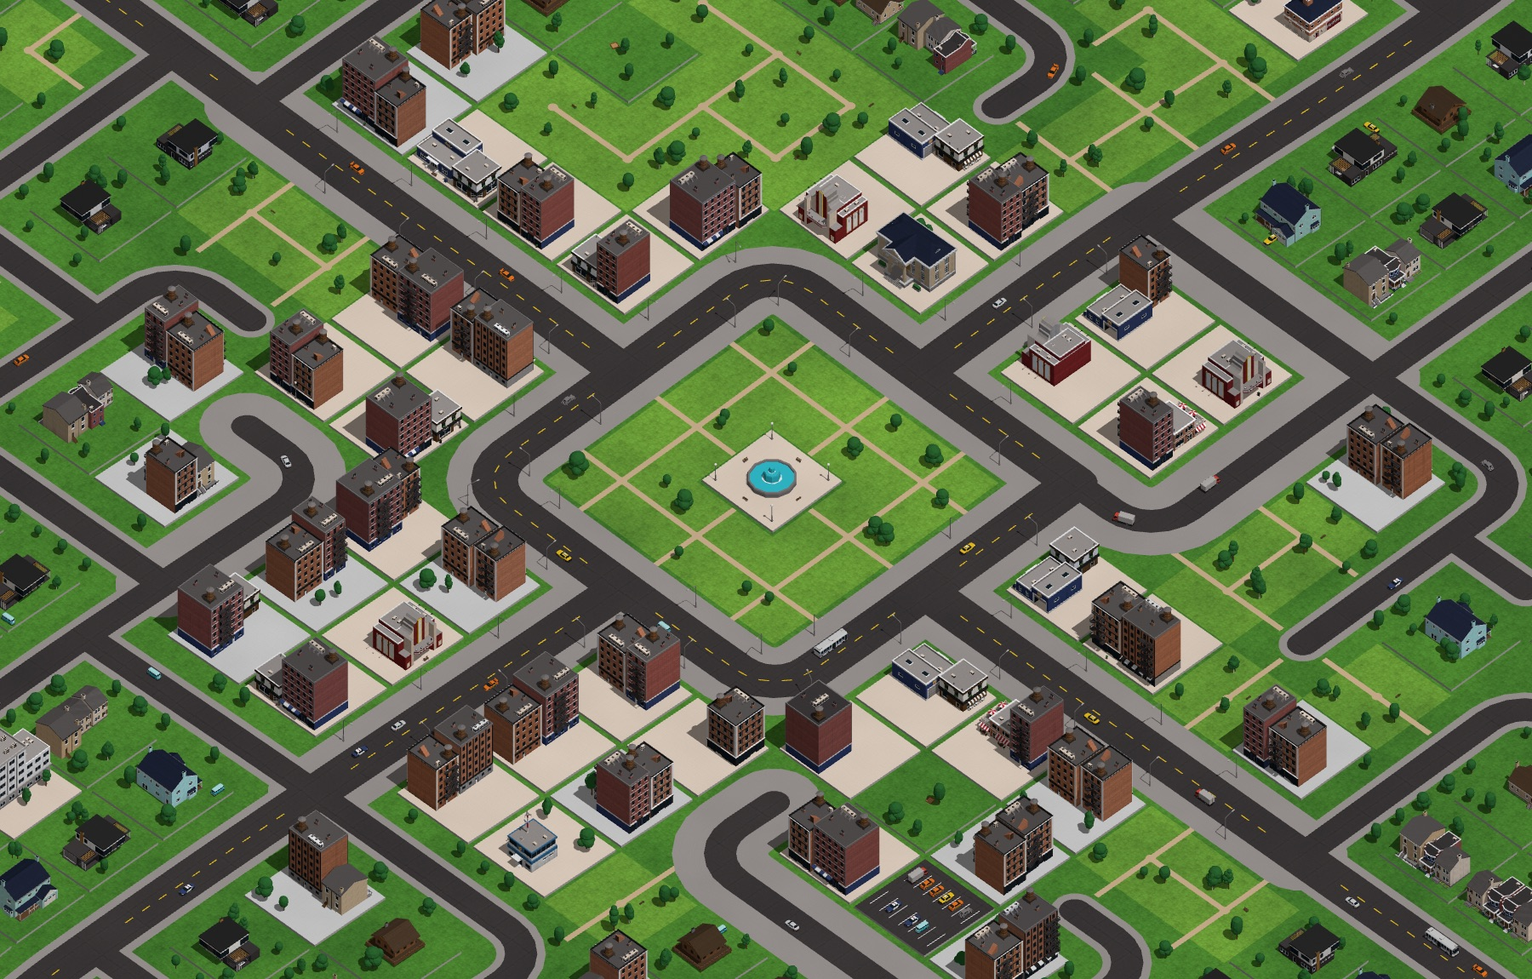
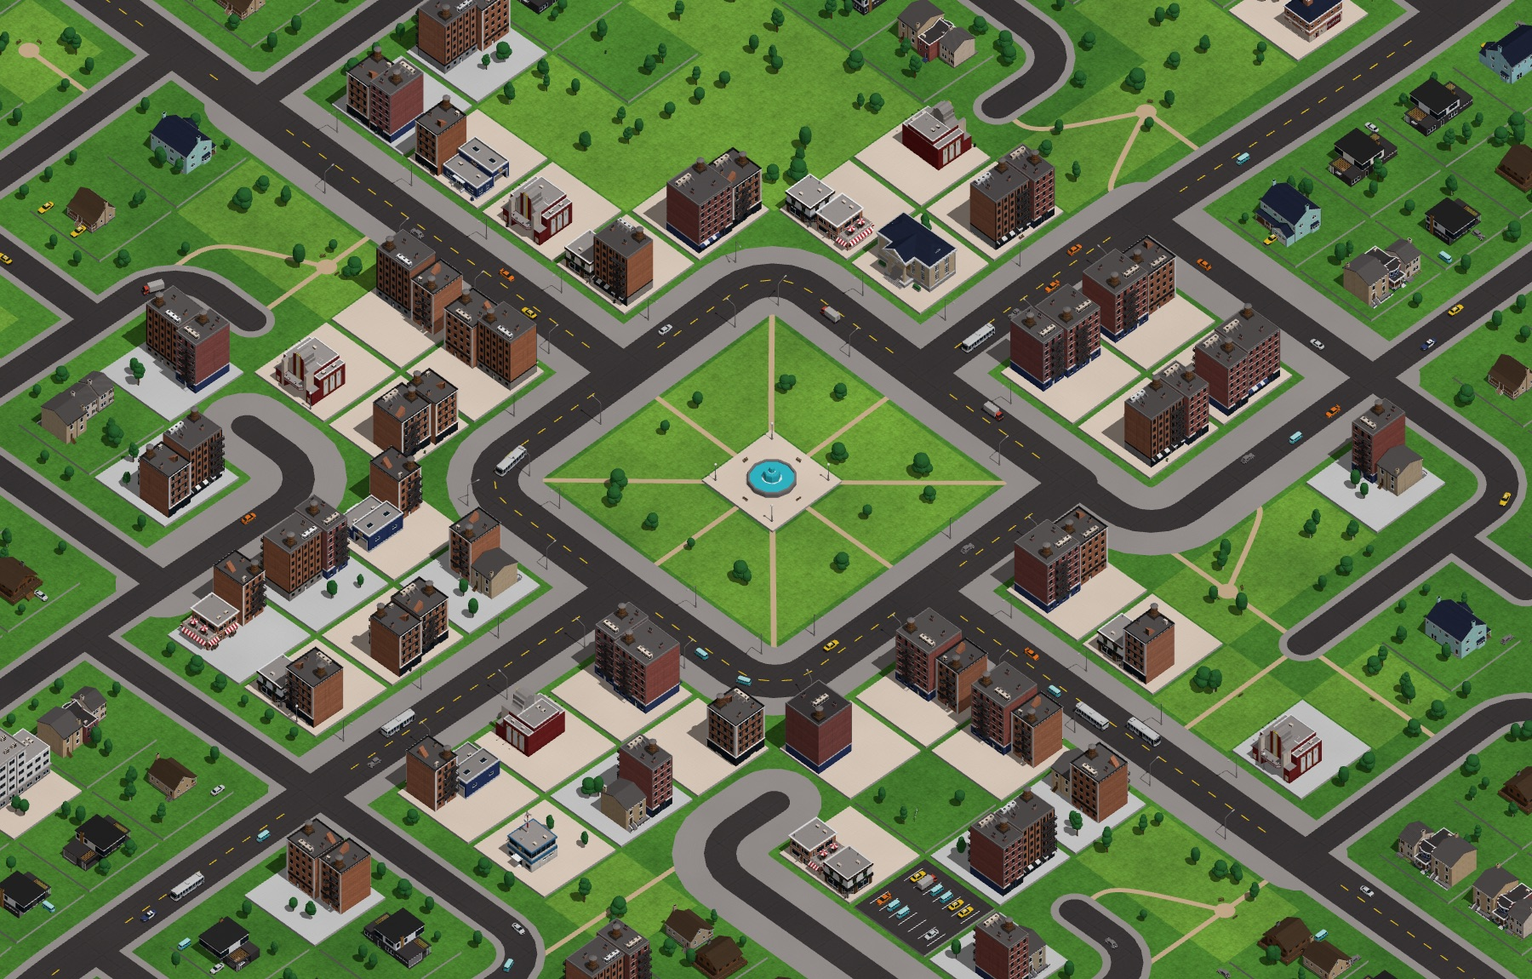
Make park paths lead somewhere, and fix spikes in curved streets (#7)
- Park paths start only where a street runs along the park's edge, and
  every path goes somewhere: through the park from street to street,
  with a bench beside it, or in to a small round seating area with
  benches. Parks with no street along them get no paths.
- Paths take the most direct line that stays in the park and curve
  round corners. Entrances whose path would wander are left out when
  there are others. The square gets paths from each side and corner to
  the fountain. Trees keep off paths.
- Where two street curves met, the shared point was added twice, which
  doubled the street's width there and left triangular spikes. Repeated
  points are now dropped.
- The straight/bent streets button is gone (?warp=0 still works).
  ?debug logs street and path checks, and ?shot= renders one view.

diff --git a/prototypes/city-mockup/town.html b/prototypes/city-mockup/town.html
@@ -34,7 +34,6 @@
   <div class="row">
     <b>Town</b><span id="seedLabel" class="grow"></span>
     <button id="replay" type="button">Watch it build</button>
-    <button id="warp" type="button"></button>
     <button id="new" type="button">New town</button>
   </div>
   <div class="row">
@@ -133,6 +132,10 @@ function makeFlat() {
     },
     // A strip along a line, slabs laid along each segment
     ribbon(pts, width, y, s, kind = SURF.none) {
+      // Repeated points (where two curves meet) would read as a sharp corner and double the
+      // strip's width there, so they're dropped
+      pts = pts.filter((p, i) => i === 0 || Math.hypot(p[0] - pts[i - 1][0], p[1] - pts[i - 1][1]) > 1e-6);
+      if (pts.length < 2) return;
       const h = width / 2, L = [], R = [];
       const normal = (q0, q1) => { const [dx, dz] = norm(sub(q1, q0)); return [-dz, dx]; };
       for (let i = 0; i < pts.length; i++) {
@@ -289,7 +292,8 @@ const streets = [];
     dense.push(pts.at(-1));
     const mid = pts[Math.floor(pts.length / 2)];
     const downtown = zone(mid) < DOWNTOWN;
-    streets.push({ cls, pts: dense.map(warp), startNode: true, endNode, downtown, ...ROAD[cls], pavement: downtown ? 0.9 : ROAD[cls].pavement });
+    // plan: the line before the warp, for working out where park paths meet the street
+    streets.push({ cls, plan: dense, pts: dense.map(warp), startNode: true, endNode, downtown, ...ROAD[cls], pavement: downtown ? 0.9 : ROAD[cls].pavement });
   }
   const roadCells = plan.cells.filter((cell) => roadSides(cell).length);
   for (const cell of roadCells) if (isNode(cell)) for (const d of roadSides(cell)) if (!seen(cell, d)) trace(cell, d);
@@ -314,23 +318,210 @@ function along(street, step, trim = 0.42) {
 const ground = makeFlat();
 const half = N / 2;
 ground.polygon([[-half, -half], [half, -half], [half, half], [-half, half]], Y.ground, SW.ground, GRASS);
-for (const cell of plan.cells) {
-  if (cell.id === 'park' || cell.id === 'square') ground.polygon(cellRing(cell), Y.land, SW.park, GRASS);
-  // Paths through parks and the square, to neighbouring park cells and out to the street
-  if (cell.id === 'park' || cell.id === 'square') {
-    const o = warp(centreOf(cell));
-    for (let d = 0; d < 4; d++) {
-      const n = cellAt(cell.x + DIRS[d][0], cell.z + DIRS[d][1]);
-      if (!n) continue;
-      const toStreet = n.kind === 'road' || n.kind === 'main';
-      if (!toStreet && !['park', 'square', 'fountain'].includes(n.id)) continue;
-      // To a street, the path carries on across the verge to the pavement
-      const [x, z] = centreOf(cell), reach = toStreet ? 0.72 : 0.5;
-      ground.ribbon([0.25, 0.5, reach].reduce((p, k) => [...p, warp([x + DIRS[d][0] * k, z + DIRS[d][1] * k])], [o]), 0.06, Y.path, SW.paving, SURF.slabs);
+for (const cell of plan.cells) if (cell.id === 'park' || cell.id === 'square') ground.polygon(cellRing(cell), Y.land, SW.park, GRASS);
+
+// ---------------------------------------------------------------- park paths
+// Paths go where people would walk. Each park (a group of park cells side by side) gets
+// entrances only where a street runs along its edge, then a path from each entrance to a hub
+// near its middle:
+// - 2 entrances: one path through the park, from street to street, with a bench beside it
+// - 1, or 3 and more: paths meet at a small round seating area with benches
+// - none: no paths
+// The courthouse square gets paths in from the middle of each side and from each corner, to
+// the fountain. Paths run straight where they can, and curve round corners where they can't.
+// Everything is worked out on the plan, then warped like the streets.
+const parkPaths = [];             // the paths as drawn (warped), so trees keep off them
+const plazas = [];                // seating areas: { o, r }, warped
+const parkBenches = new Map();    // cell index → benches to place: [{ p, rot }]
+{
+  const segDist = (p, a, b) => {
+    const dx = b[0] - a[0], dz = b[1] - a[1], l2 = dx * dx + dz * dz || 1;
+    const t = Math.max(0, Math.min(1, ((p[0] - a[0]) * dx + (p[1] - a[1]) * dz) / l2));
+    return Math.hypot(p[0] - a[0] - dx * t, p[1] - a[1] - dz * t);
+  };
+  for (const st of streets) {
+    st.box = st.plan.reduce((b, [x, z]) => [Math.min(b[0], x), Math.min(b[1], z), Math.max(b[2], x), Math.max(b[3], z)], [Infinity, Infinity, -Infinity, -Infinity]);
+  }
+  // Whether a plan point is on a street's pavement or road
+  const onStreet = (p) => streets.some((st) => {
+    if (p[0] < st.box[0] - 1 || p[1] < st.box[1] - 1 || p[0] > st.box[2] + 1 || p[1] > st.box[3] + 1) return false;
+    for (let i = 0; i < st.plan.length - 1; i++) if (segDist(p, st.plan[i], st.plan[i + 1]) < st.pavement / 2 - 0.02) return true;
+    return false;
+  });
+  // Walks out from p along dir until it's on a street's pavement; null if there's none within reach
+  function reachStreet(p, dir, max) {
+    for (let t = 0; t <= max; t += 0.02) {
+      const q = [p[0] + dir[0] * t, p[1] + dir[1] * t];
+      if (onStreet(q)) return [p[0] + dir[0] * (t + 0.05), p[1] + dir[1] * (t + 0.05)];
     }
-    ground.disc(o, 0.05, Y.path, SW.paving);
+    return null;
+  }
+  // Corner cutting, keeping both ends where they are
+  function smooth(pts, rounds = 3) {
+    for (let k = 0; k < rounds; k++) {
+      const out = [pts[0]];
+      for (let i = 0; i < pts.length - 1; i++) {
+        const a = pts[i], b = pts[i + 1];
+        if (i > 0) out.push([a[0] * 0.75 + b[0] * 0.25, a[1] * 0.75 + b[1] * 0.25]);
+        if (i < pts.length - 2) out.push([a[0] * 0.25 + b[0] * 0.75, a[1] * 0.25 + b[1] * 0.75]);
+      }
+      out.push(pts.at(-1));
+      pts = out;
+    }
+    return pts;
+  }
+  const lengthOf = (pts) => pts.slice(1).reduce((s, p, i) => s + Math.hypot(...sub(p, pts[i])), 0);
+  // A point part way along a line, and the line's direction there
+  function pointAlong(pts, s) {
+    for (let i = 0; i < pts.length - 1; i++) {
+      const l = Math.hypot(...sub(pts[i + 1], pts[i]));
+      if (s <= l || i === pts.length - 2) { const t = Math.min(1, s / (l || 1)); return [[pts[i][0] + (pts[i + 1][0] - pts[i][0]) * t, pts[i][1] + (pts[i + 1][1] - pts[i][1]) * t], norm(sub(pts[i + 1], pts[i]))]; }
+      s -= l;
+    }
+  }
+  const cellIndex = (p) => Math.round(p[1] + c) * N + Math.round(p[0] + c);
+  const addBench = (planP, planFacing) => {
+    // A bench at planP, facing towards planFacing
+    const p = warp(planP), D = norm(sub(p, warp(planFacing)));
+    const list = parkBenches.get(cellIndex(planP)) ?? [];
+    list.push({ p, rot: Math.atan2(D[0], D[1]) + Math.PI });
+    parkBenches.set(cellIndex(planP), list);
+  };
+  let layer = 0;
+  // Draws a path given on the plan, a little above the last so overlapping paths don't flicker
+  function drawPath(planPts) {
+    const dense = [];
+    for (let i = 0; i < planPts.length - 1; i++) {
+      const steps = Math.max(1, Math.ceil(Math.hypot(...sub(planPts[i + 1], planPts[i])) / 0.08));
+      for (let k = 0; k < steps; k++) dense.push([planPts[i][0] + (planPts[i + 1][0] - planPts[i][0]) * k / steps, planPts[i][1] + (planPts[i + 1][1] - planPts[i][1]) * k / steps]);
+    }
+    dense.push(planPts.at(-1));
+    const pts = dense.map(warp);
+    ground.ribbon(pts, 0.055, Y.path + (layer++ % 12) * 0.00005, SW.paving, SURF.slabs);
+    parkPaths.push(pts);
+  }
+
+  // Parks, and the square with its fountain, as groups of cells side by side
+  const kindOf = (cell) => (cell.id === 'park' ? 'park' : cell.id === 'square' || cell.id === 'fountain' ? 'square' : null);
+  const seen = new Set(), regions = [];
+  for (const cell of plan.cells) {
+    const kind = kindOf(cell);
+    if (!kind || seen.has(cell)) continue;
+    const cells = [], stack = [cell];
+    seen.add(cell);
+    while (stack.length) {
+      const a = stack.pop();
+      cells.push(a);
+      for (const [dx, dz] of DIRS) { const b = cellAt(a.x + dx, a.z + dz); if (b && !seen.has(b) && kindOf(b) === kind) { seen.add(b); stack.push(b); } }
+    }
+    regions.push({ kind, cells });
+  }
+
+  for (const { kind, cells } of regions) {
+    const set = new Set(cells);
+    const inside = ([x, z]) => set.has(cellAt(Math.round(x + c), Math.round(z + c)));
+    // The hub: the fountain, or the park cell nearest the park's middle
+    const mid = cells.reduce((m, k) => [m[0] + centreOf(k)[0] / cells.length, m[1] + centreOf(k)[1] / cells.length], [0, 0]);
+    const hub = kind === 'square' ? cells.find((k) => k.id === 'fountain') : cells.reduce((a, b) => (Math.hypot(...sub(centreOf(a), mid)) <= Math.hypot(...sub(centreOf(b), mid)) ? a : b));
+    const H = centreOf(hub);
+
+    // Routes to the hub: straight if that stays in the park, otherwise round its corners
+    const prev = new Map([[hub, null]]), queue = [hub];
+    while (queue.length) {
+      const a = queue.shift();
+      for (const [dx, dz] of DIRS) { const b = cellAt(a.x + dx, a.z + dz); if (b && set.has(b) && !prev.has(b)) { prev.set(b, a); queue.push(b); } }
+    }
+    // Whether the straight line from a to b stays in the park
+    const clear = (a, b) => Array.from({ length: 19 }, (_, i) => (i + 1) / 20).every((t) => inside([a[0] + (b[0] - a[0]) * t, a[1] + (b[1] - a[1]) * t]));
+    const route = (e) => {
+      const cells = [e.m];
+      for (let k = e.cell; k && k !== hub; k = prev.get(k)) cells.push(centreOf(k));
+      cells.push(H);
+      // Pull the route tight: from each point, go straight to the furthest point it can see
+      const tight = [cells[0]];
+      for (let i = 0; i < cells.length - 1;) {
+        let j = cells.length - 1;
+        while (j > i + 1 && !clear(cells[i], cells[j])) j--;
+        tight.push(cells[j]);
+        i = j;
+      }
+      return [e.q, ...tight];
+    };
+
+    // Possible entrances: the middle of each edge with a street running along it
+    let cands = [];
+    for (const cell of cells) for (let d = 0; d < 4; d++) {
+      const n = cellAt(cell.x + DIRS[d][0], cell.z + DIRS[d][1]);
+      if (!n || set.has(n) || (n.kind !== 'road' && n.kind !== 'main')) continue;
+      if (kind === 'square' && cell.x !== hub.x && cell.z !== hub.z) continue;
+      const C = centreOf(cell), m = [C[0] + DIRS[d][0] * 0.5, C[1] + DIRS[d][1] * 0.5];
+      const q = reachStreet(m, DIRS[d], 0.7);
+      if (q) cands.push({ cell, m, q });
+    }
+    let entrances = cands;
+    if (kind === 'square') {
+      // and the square's corners, out along the diagonals
+      const xs = cells.map((k) => centreOf(k)[0]), zs = cells.map((k) => centreOf(k)[1]);
+      for (const [sx, sz] of [[-1, -1], [1, -1], [1, 1], [-1, 1]]) {
+        const m = [sx < 0 ? Math.min(...xs) - 0.5 : Math.max(...xs) + 0.5, sz < 0 ? Math.min(...zs) - 0.5 : Math.max(...zs) + 0.5];
+        const q = reachStreet(m, norm([sx, sz]), 1);
+        if (q) entrances.push({ cell: cellAt(Math.round(m[0] - sx * 0.25 + c), Math.round(m[1] - sz * 0.25 + c)), m, q });
+      }
+    } else if (cands.length) {
+      // Leave out entrances whose path would wander round a corner of the park, unless that's all there is
+      const direct = cands.filter((e) => lengthOf(route(e).slice(1)) <= 1.35 * Math.max(Math.hypot(...sub(e.m, H)), 0.3));
+      if (direct.length) cands = direct;
+      // As far apart as possible: 2 for a one-cell park, up to 3 or 4 for bigger ones
+      const want = cells.length === 1 ? 2 : cells.length <= 4 ? 3 : 4;
+      entrances = [cands[Math.floor(rand() * cands.length)]];
+      while (entrances.length < want) {
+        let best = null, far = 0;
+        for (const e of cands) {
+          if (entrances.includes(e)) continue;
+          const d = Math.min(...entrances.map((s) => Math.hypot(...sub(e.m, s.m))));
+          if (d > far) { far = d; best = e; }
+        }
+        if (!best || far < 0.9) break;
+        entrances.push(best);
+      }
+    }
+    if (!entrances.length) continue;
+
+
+    if (kind !== 'square' && entrances.length === 2) {
+      // One path through the park, with a bench halfway along
+      const pts = smooth([...route(entrances[0]), ...route(entrances[1]).reverse().slice(1)]);
+      drawPath(pts);
+      const L = lengthOf(pts), [p, t] = pointAlong(pts, L / 2), side = rand() < 0.5 ? 1 : -1;
+      addBench([p[0] - t[1] * side * 0.065, p[1] + t[0] * side * 0.065], p);
+      continue;
+    }
+    const routes = entrances.map((e) => smooth(route(e)));
+    routes.forEach(drawPath);
+    if (kind === 'square') continue;   // the fountain's paving is the hub
+    // A round seating area where the paths meet, with benches between the paths
+    const R = 0.1;
+    ground.disc(warp(H), R, Y.path + 0.0007, SW.paving, [SURF.slabs, 1, 0], 24);
+    plazas.push({ o: warp(H), r: R });
+    const arms = routes.map((r) => Math.atan2(...sub(r.at(-2), H).reverse()));
+    const gap = (a) => Math.min(...arms.map((b) => Math.abs(Math.atan2(Math.sin(a - b), Math.cos(a - b)))));
+    const spots = Array.from({ length: 12 }, (_, i) => i * Math.PI / 6).filter((a) => gap(a) > 0.8).sort((a, b) => gap(b) - gap(a));
+    const benches = [];
+    for (const a of spots) if (benches.length < 2 && benches.every((b) => Math.abs(Math.atan2(Math.sin(a - b), Math.cos(a - b))) > 1.2)) benches.push(a);
+    for (const a of benches) addBench([H[0] + Math.cos(a) * (R + 0.04), H[1] + Math.sin(a) * (R + 0.04)], H);
   }
 }
+// Whether a point is clear of park paths and seating areas
+const clearOfPaths = (p, gap = 0.08) =>
+  plazas.every(({ o, r }) => Math.hypot(...sub(p, o)) > r + gap + 0.02) &&
+  parkPaths.every((pts) => {
+    for (let i = 0; i < pts.length - 1; i++) {
+      const a = pts[i], b = pts[i + 1], dx = b[0] - a[0], dz = b[1] - a[1], l2 = dx * dx + dz * dz || 1;
+      const t = Math.max(0, Math.min(1, ((p[0] - a[0]) * dx + (p[1] - a[1]) * dz) / l2));
+      if (Math.hypot(p[0] - a[0] - dx * t, p[1] - a[1] - dz * t) < gap) return false;
+    }
+    return true;
+  });
 for (const st of streets) {
   ground.ribbon(st.pts, st.pavement, Y.pavement, SW.pavement, SURF.pavement);
   ground.ribbon(st.pts, st.road, Y.road, SW.asphalt, SURF.asphalt);
@@ -347,6 +538,26 @@ for (const cell of plan.cells) {
   ground.disc(o, road / 2, Y.road, SW.asphalt, [SURF.asphalt, 1, 0], 20);
 }
 city.add(ground.mesh());
+if (params.has('debug')) {
+  // Sharp corners inside a street line, and where each street starts and ends
+  for (const st of streets) {
+    const line = st.plan.filter((p, i) => i === 0 || Math.hypot(...sub(p, st.plan[i - 1])) > 1e-6);
+    for (let i = 1; i < line.length - 1; i++) {
+      const a = norm(sub(line[i], line[i - 1])), b = norm(sub(line[i + 1], line[i]));
+      const turn = Math.acos(Math.max(-1, Math.min(1, a[0] * b[0] + a[1] * b[1]))) / DEG;
+      if (turn > 40) console.log(`DEBUG sharp ${turn.toFixed(0)}° at plan ${line[i].map((v) => (v + c).toFixed(2))} street ${st.cls} from ${st.plan[0].map((v) => (v + c).toFixed(1))} to ${st.plan.at(-1).map((v) => (v + c).toFixed(1))}`);
+    }
+  }
+  const ends = new Map();
+  for (const st of streets) for (const p of [st.plan[0], st.plan.at(-1)]) { const k = p.map((v) => (v + c).toFixed(2)).join(','); ends.set(k, (ends.get(k) ?? 0) + 1); }
+  for (const [k, n] of ends) {
+    const [x, z] = k.split(',').map(Number), cell = cellAt(Math.round(x), Math.round(z));
+    const atCentre = Math.abs(x - Math.round(x)) < 1e-6 && Math.abs(z - Math.round(z)) < 1e-6;
+    const offMap = [x, z].some((v) => Math.abs(v + 0.5) < 1e-6 || Math.abs(v - N + 0.5) < 1e-6);
+    if (!offMap && (!atCentre || !isNode(cell))) console.log(`DEBUG end at ${k}: ${n} street ends, cell ${cell?.id} sides ${cell?.sides.join('')}`);
+  }
+  console.log(`DEBUG parks: ${parkPaths.length} paths, ${plazas.length} seating areas`);
+}
 {
   const slab = new THREE.Mesh(new THREE.BoxGeometry(N, 0.3, N), new THREE.MeshLambertMaterial({ color: 0x5b4636 }));
   slab.position.y = -0.152;
@@ -412,10 +623,16 @@ async function backGarden(g, fr, F, n) {
 }
 async function scatter(g, fr, n, list, { y = KERB, spread = 0.76, avoidPaths = false } = {}) {
   for (let i = 0; i < n; i++) {
-    let u, v;
-    do { u = (rand() - 0.5) * spread; v = (rand() - 0.5) * spread; } while (avoidPaths && (Math.abs(u) < 0.09 || Math.abs(v) < 0.09));
-    await place(pick(list), lotPoint(fr, [0, 1], u, v), { y, s: 0.85 + rand() * 0.45, rot: rand() * 6.28, parent: g });
+    let p, tries = 0;
+    do p = lotPoint(fr, [0, 1], (rand() - 0.5) * spread, (rand() - 0.5) * spread);
+    while (avoidPaths && !clearOfPaths(p) && ++tries < 30);
+    if (avoidPaths && !clearOfPaths(p)) continue;
+    await place(pick(list), p, { y, s: 0.85 + rand() * 0.45, rot: rand() * 6.28, parent: g });
   }
+}
+// The benches the park paths asked for in this cell
+async function benches(g, cell) {
+  for (const { p, rot } of parkBenches.get(cell.z * N + cell.x) ?? []) await place('bench-old', p, { rot, y: Y.path, parent: g });
 }
 
 // Every non-road cell gets its own group, so the town can grow cell by cell in the order the solver decided
@@ -482,13 +699,14 @@ async function buildLot(cell) {
       break;
     }
     case 'park':
+      await benches(g, cell);
       await scatter(g, fr, 3 + Math.floor(rand() * 2), TREES, { y: Y.land, avoidPaths: true });
-      if (rand() < 0.5) await place('bench-old', lotPoint(fr, [0, 1], 0.14, 0.14), { rot: pick([0, 1, 2, 3]) * Math.PI / 2, y: Y.land, parent: g });
       break;
     case 'woods':
       await scatter(g, fr, 5 + Math.floor(rand() * 3), TREES.concat(CONIFERS), { y: 0, spread: 0.9 });
       break;
     case 'square':
+      await benches(g, cell);
       await scatter(g, fr, 2, ['tree-lime', 'tree-round'], { y: Y.land, avoidPaths: true });
       break;
     case 'fountain':
@@ -572,13 +790,10 @@ if (LIVE) {
   controls.addEventListener('change', () => { dirty = true; });
   addEventListener('resize', () => { const a = innerWidth / innerHeight; Object.assign(cam, { left: -halfView * a, right: halfView * a }); cam.updateProjectionMatrix(); view.setSize(innerWidth, innerHeight); dirty = true; });
 
-  // Panel: seed, new town, straight or bent streets, replay, and the time of day
+  // Panel: seed, new town, replay, and the time of day
   const go = (changes) => { const p = new URLSearchParams(location.search); for (const [k, v] of Object.entries(changes)) p.set(k, v); location.search = p; };
   document.getElementById('seedLabel').textContent = `seed ${SEED} · ${N}×${N} cells · solved in ${plan.tries} ${plan.tries === 1 ? 'try' : 'tries'}`;
   document.getElementById('new').onclick = () => go({ seed: 1 + Math.floor(Math.random() * 9999) });
-  const warpButton = document.getElementById('warp');
-  warpButton.textContent = WARP ? 'Straight streets' : 'Bent streets';
-  warpButton.onclick = () => go({ warp: WARP ? 0 : 1 });
   let playing = false;
   const playButton = document.getElementById('play'), slider = document.getElementById('time'), phase = document.getElementById('phase');
   playButton.onclick = () => { playing = !playing; playButton.textContent = playing ? 'Pause' : 'Play'; };
@@ -640,14 +855,21 @@ if (LIVE) {
     ctx.fillStyle = grad; ctx.fillRect(0, 0, W, H); ctx.drawImage(renderer.domElement, 0, 0);
     await post(await png(cv), name);
   };
-  const mapCanvas = document.createElement('canvas'); mapCanvas.width = mapCanvas.height = N * 16;
-  drawMap(mapCanvas);
-  await post(await png(mapCanvas), 'town-map');
-  await post(`${plan.map}\n\nseed ${SEED}, solved in ${plan.tries} tries\n${LEGEND}\n`, 'town-map.txt');
-  await shot(new THREE.Vector3(0, 0, 0), N * 0.6, 'town-whole');
-  await shot(new THREE.Vector3(0, 0, 0), 4.6, 'town-square');
-  await shot(new THREE.Vector3(N * 0.22, 0, N * 0.22), 5, 'town-neighbourhood');
-  await shot(new THREE.Vector3(-2.5, 0, 1.5), 2, 'town-closeup');
+  if (params.has('shot')) {
+    // ?shot=x,z,half renders just one view, centred on plan cell (x, z), half the view's height across
+    const [x, z, h] = params.get('shot').split(',').map(Number);
+    const [wx, wz] = warp([x - c, z - c]);
+    await shot(new THREE.Vector3(wx, 0, wz), h || 1.5, 'town-shot');
+  } else {
+    const mapCanvas = document.createElement('canvas'); mapCanvas.width = mapCanvas.height = N * 16;
+    drawMap(mapCanvas);
+    await post(await png(mapCanvas), 'town-map');
+    await post(`${plan.map}\n\nseed ${SEED}, solved in ${plan.tries} tries\n${LEGEND}\n`, 'town-map.txt');
+    await shot(new THREE.Vector3(0, 0, 0), N * 0.6, 'town-whole');
+    await shot(new THREE.Vector3(0, 0, 0), 4.6, 'town-square');
+    await shot(new THREE.Vector3(N * 0.22, 0, N * 0.22), 5, 'town-neighbourhood');
+    await shot(new THREE.Vector3(-2.5, 0, 1.5), 2, 'town-closeup');
+  }
 }
 document.title = 'done';
 </script>

diff --git a/prototypes/city-mockup/README.md b/prototypes/city-mockup/README.md
@@ -60,13 +60,23 @@ Then, on top of plain WFC:
 - **Soft size cap** on parks, and **one of each landmark** (town hall, bank, school, fire station, police, hospital, data centre).
 - **Restarts:** a plan that contradicts itself, or whose streets don't all connect, is dropped. Of 6 working plans, the one with the fewest defects is kept. A 25×25 town takes 0.1–2.5 s.
 
-**Drawing it.** A gentle, smooth warp bends the whole grid, so streets curve a little while lots keep their shape (`?warp=0` for straight streets). Streets are traced from junction to junction and drawn as textured ribbons, with rounded bends and round junctions. Downtown streets get pavements wall to wall. Lots get a raised base sized to the cell, and buildings in a row along their front, using city2's lot rules. Every house lot holds 2 houses, so plots are about 16 m wide.
+**Drawing it.** A gentle, smooth warp bends the whole grid, so streets curve a little while lots keep their shape (`?warp=0` for straight streets). Streets are traced from junction to junction and drawn as textured ribbons, with rounded bends and round junctions. Downtown streets get pavements wall to wall. Repeated points where two curves meet are dropped, as they used to double the street's width there and leave spikes. Lots get a raised base sized to the cell, and buildings in a row along their front, using city2's lot rules. Every house lot holds 2 houses, so plots are about 16 m wide.
 
-**In the browser** (`?live`): a minimap of the plan, with a tick on each lot's front; **Watch it build**, which raises the lots in the order the solver decided them; **New town**; straight or bent streets; and the day/night cycle. `?size=` changes the grid (odd numbers), and `?ground=`, `?buildings=` and `?texscale=` work as in `organic.html`.
+**Park paths** go where people would walk. Each park (park cells side by side) gets entrances only where a street runs along its edge, as far apart as possible, then a path from each to a hub near its middle:
+
+- 2 entrances: one path through, street to street, with a bench beside it
+- 1, or 3 and more: the paths meet at a small round seating area with benches
+- none: no paths (a park enclosed by lots stays plain grass)
+
+Paths take the most direct line that stays in the park, and curve round corners. An entrance whose path would wander round a corner is left out if there are others. The courthouse square gets paths from the middle of each side and each corner to the fountain. Trees keep off paths.
+
+**In the browser** (`?live`): a minimap of the plan, with a tick on each lot's front; **Watch it build**, which raises the lots in the order the solver decided them; **New town**; and the day/night cycle.
+
+For checking: `?debug` logs sharp corners in streets, street ends that aren't at a junction, and how many park paths there are. Without `?live`, `?shot=x,z,half` renders one view centred on plan cell (x, z). `?size=` changes the grid (odd numbers), and `?ground=`, `?buildings=` and `?texscale=` work as in `organic.html`.
 
 To try the planner without a browser: `node -e "import('./lib/townPlan.js').then(({ planTown }) => console.log(planTown({ seed: 5 }).map))"`
 
-Renders: `renders/town-seed<n>-*.jpg`, and `renders/town-seed1-map.png` for the plan.
+Renders: `renders/town-seed<n>-*.jpg`, and `renders/town-seed1-map.png` for the plan. `town` posts 1 image with `?shot=`.
 
 ## Ground and building detail
 
